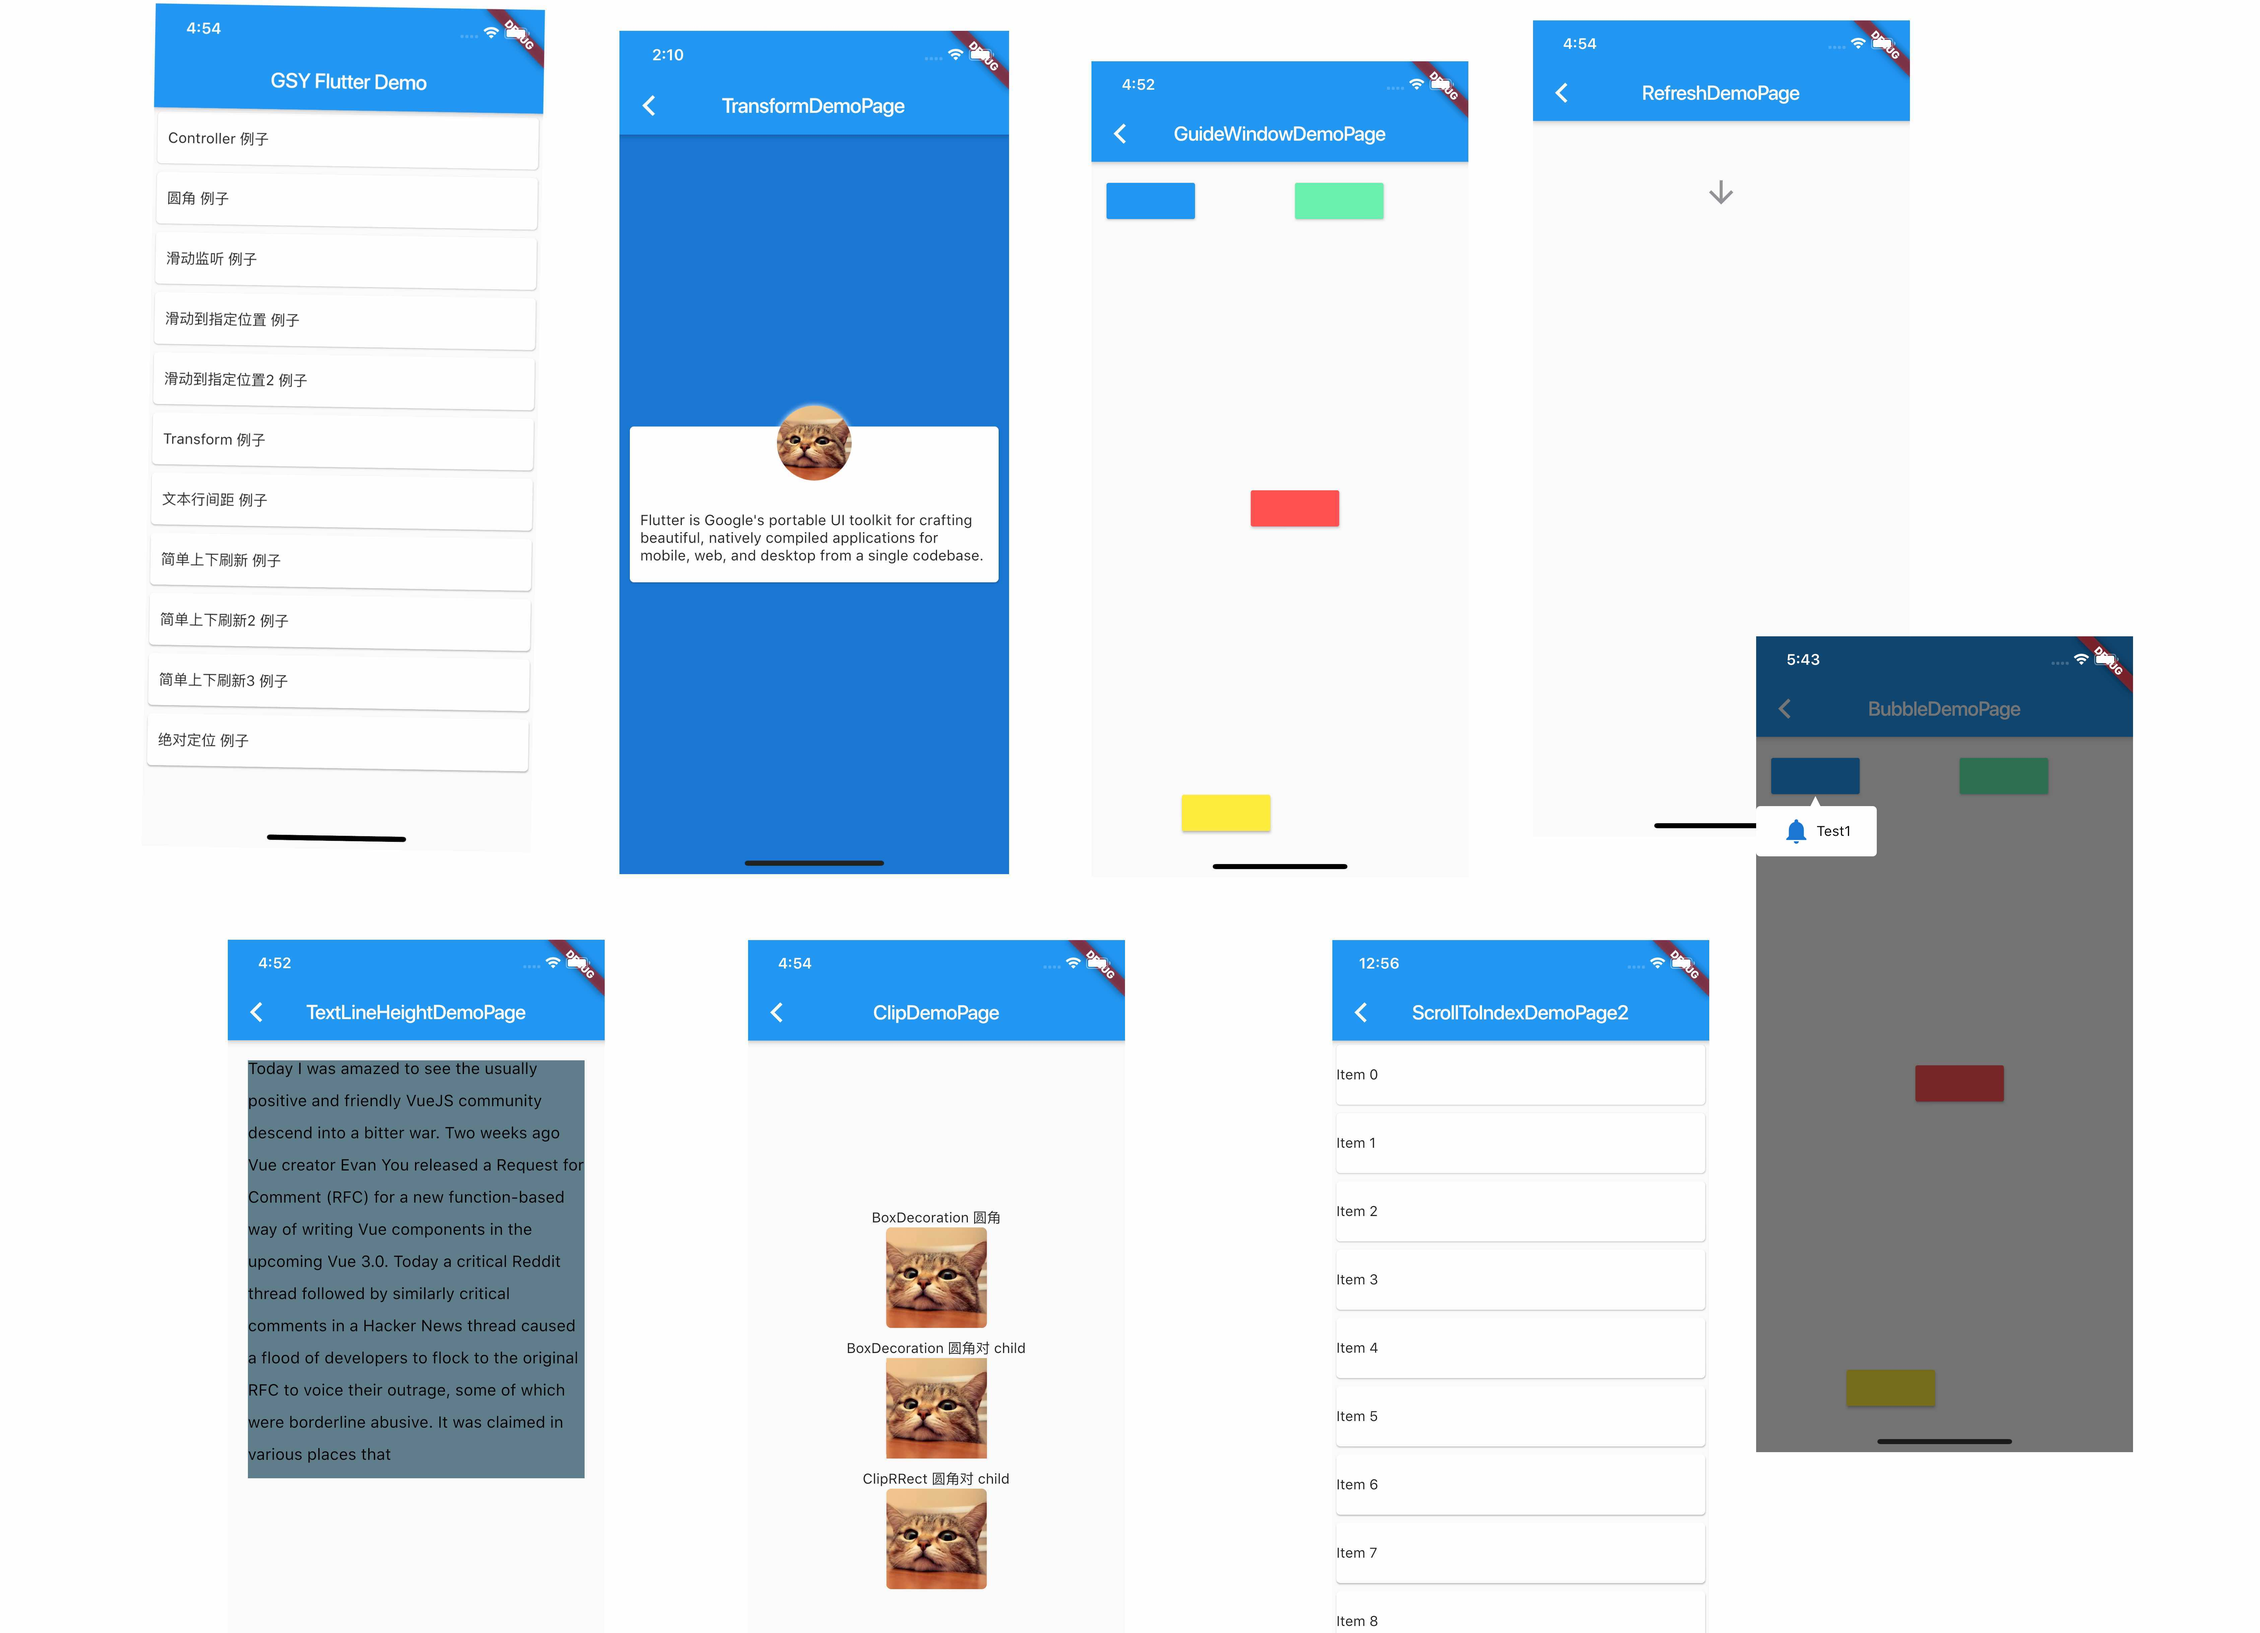
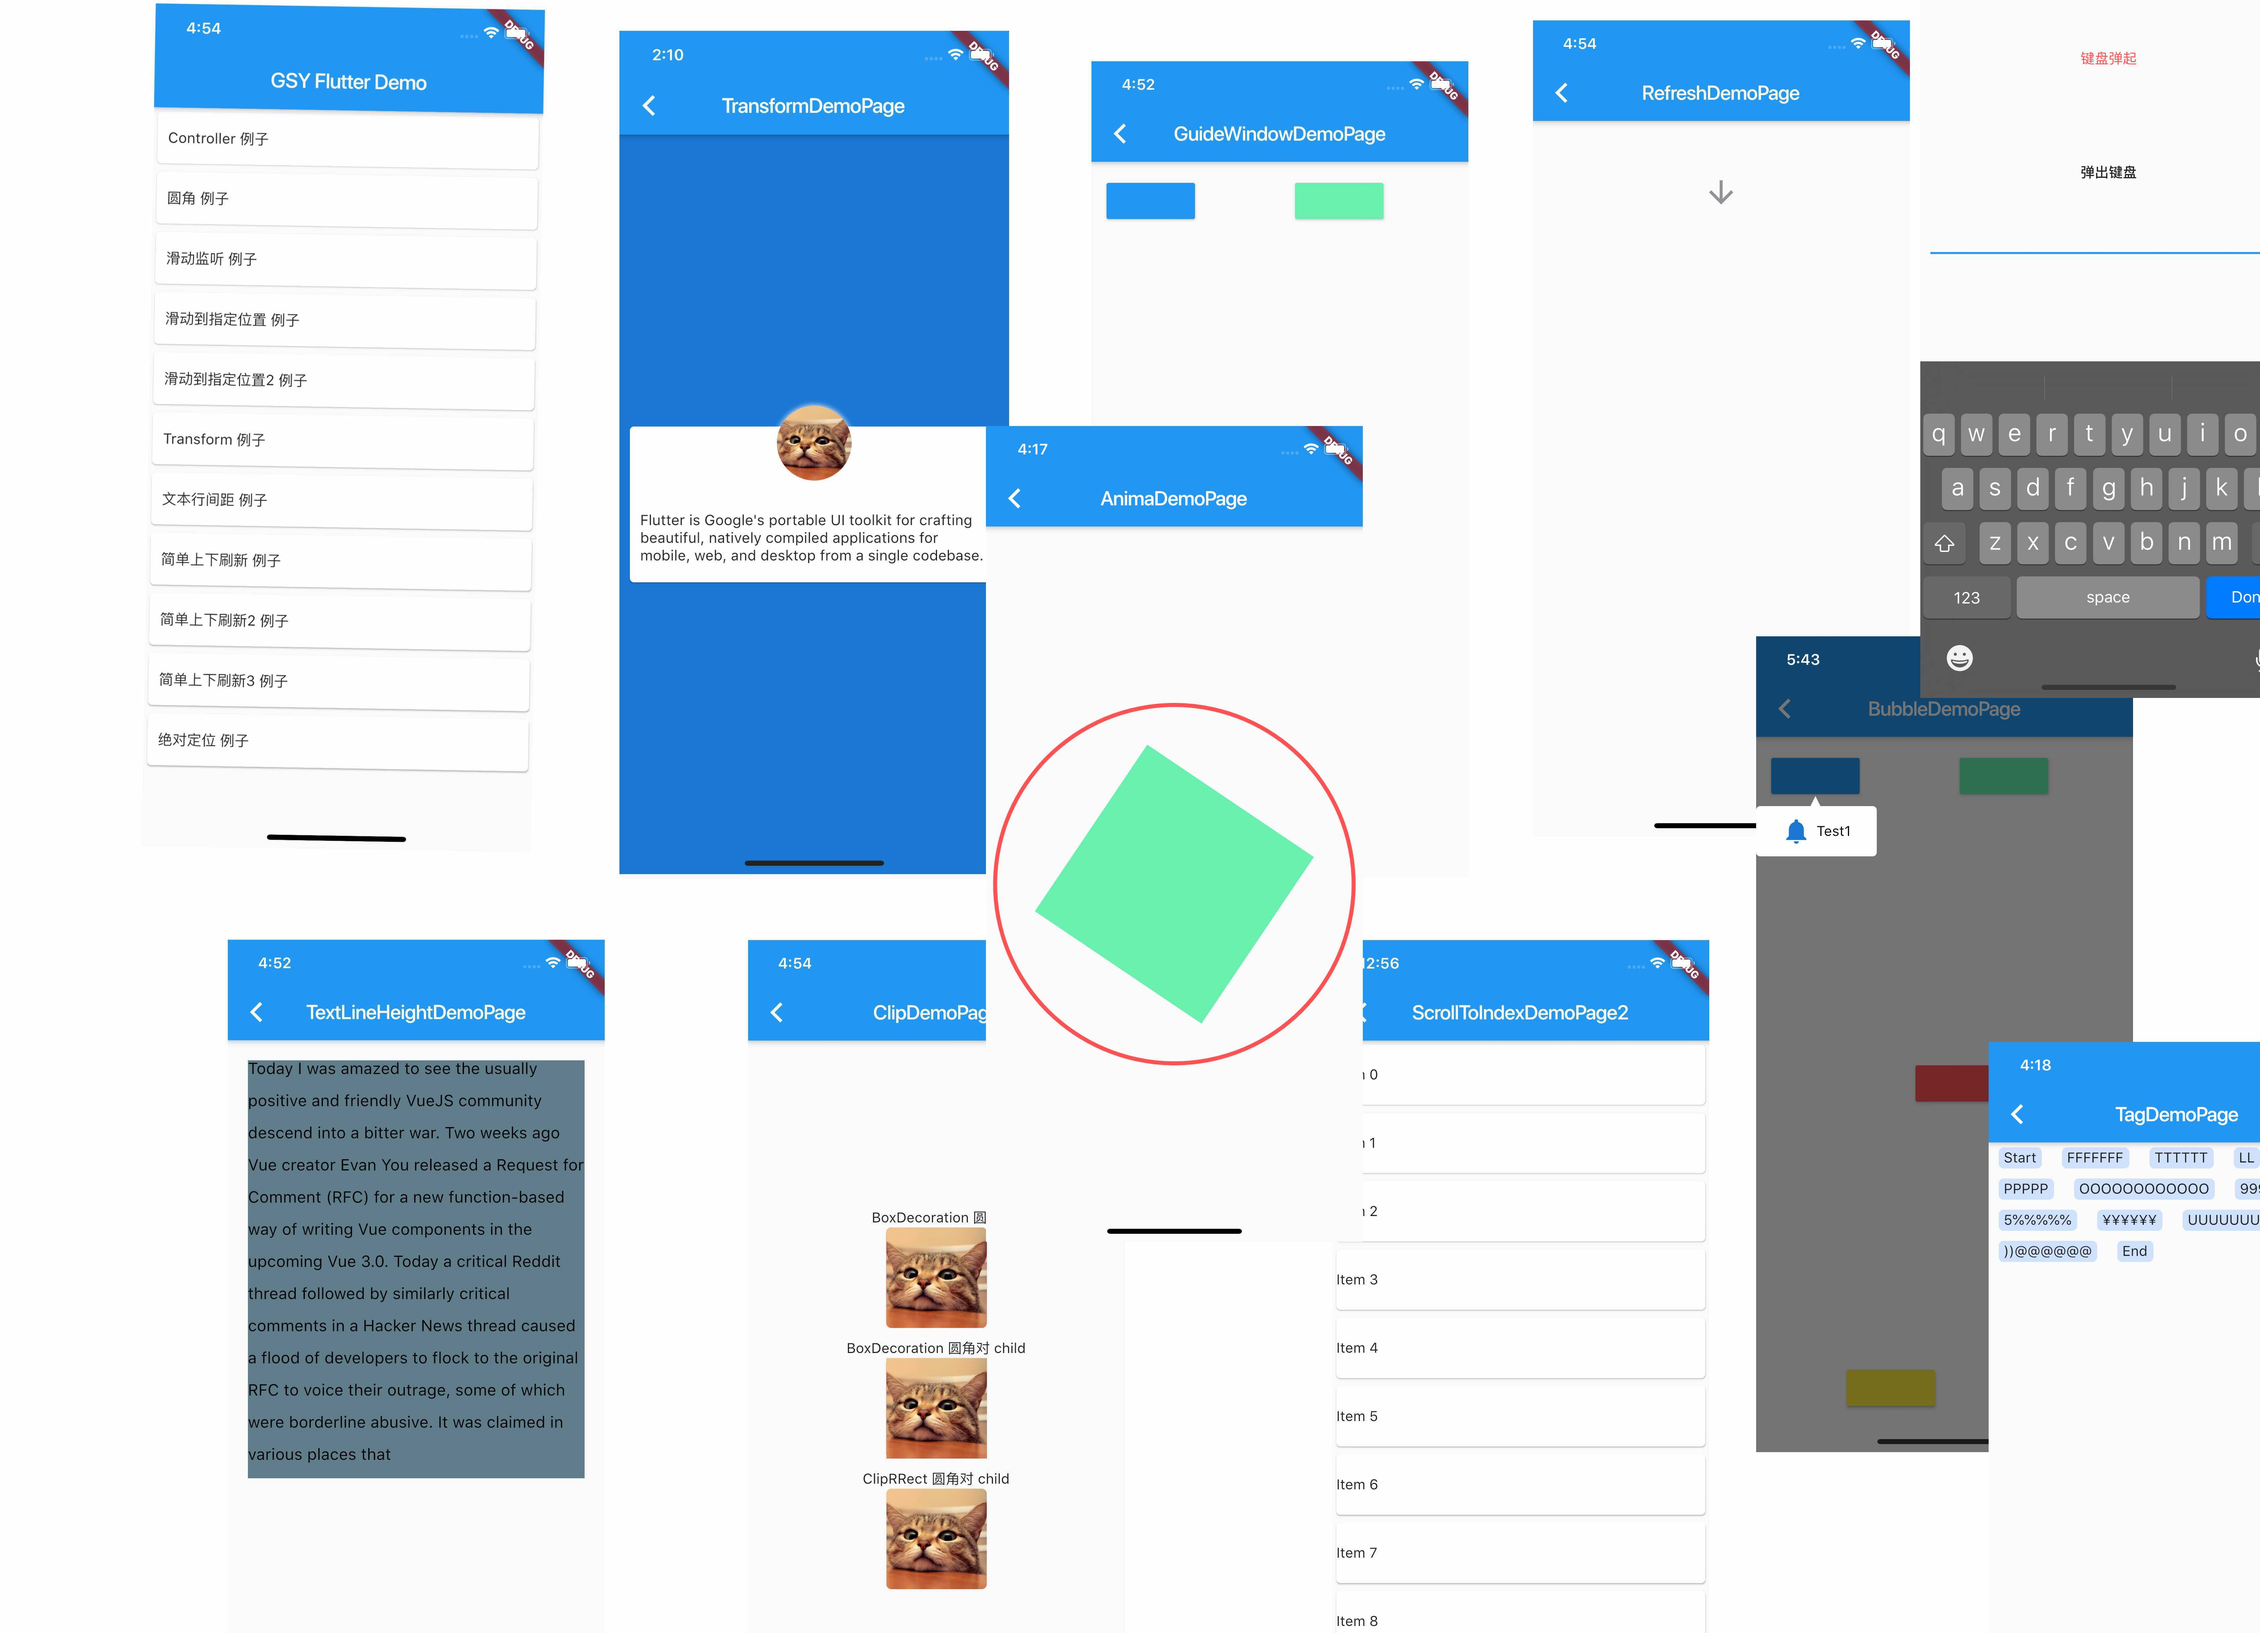
增加动画效果

Changed region(s): [[0.4358, 0.2494, 0.6226, 0.6546], [0.8405, 0.2182, 1.0, 0.4364], [0.8716, 0.6235, 1.0, 0.904]]

diff --git a/lib/widget/anima_demo_page.dart b/lib/widget/anima_demo_page.dart
@@ -1,0 +1,84 @@
+import 'package:flutter/material.dart';
+
+class AnimaDemoPage extends StatefulWidget {
+  @override
+  _AnimaDemoPageState createState() => _AnimaDemoPageState();
+}
+
+class _AnimaDemoPageState extends State<AnimaDemoPage>
+    with SingleTickerProviderStateMixin {
+  AnimationController controller1;
+
+  Animation animation1;
+
+  Animation animation2;
+
+  @override
+  void initState() {
+    super.initState();
+    controller1 =
+        new AnimationController(vsync: this, duration: Duration(seconds: 3));
+
+    animation1 = Tween(begin: 0.0, end: 200.0).animate(controller1)
+      ..addListener(() {
+        setState(() {});
+      });
+
+    animation2 = Tween(begin: 0.0, end: 1.0).animate(controller1);
+
+    controller1.repeat();
+  }
+
+  @override
+  void dispose() {
+    controller1.dispose();
+    super.dispose();
+  }
+
+  @override
+  Widget build(BuildContext context) {
+    return Scaffold(
+      appBar: AppBar(
+        title: new Text("AnimaDemoPage"),
+      ),
+
+      ///用封装好的 Transition 做动画
+      body: new RotationTransition(
+        turns: animation2,
+        child: new Container(
+          child: Center(
+            child: new Container(
+              height: 200,
+              width: 200,
+              color: Colors.greenAccent,
+              child: CustomPaint(
+                ///直接使用值做动画
+                foregroundPainter: _AnimationPainter(animation1),
+              ),
+            ),
+          ),
+        ),
+      ),
+    );
+  }
+}
+
+class _AnimationPainter extends CustomPainter {
+  Paint _paint = new Paint();
+
+  Animation animation;
+
+  _AnimationPainter(this.animation);
+
+  @override
+  void paint(Canvas canvas, Size size) {
+    _paint
+      ..color = Colors.redAccent
+      ..strokeWidth = 4
+      ..style = PaintingStyle.stroke;
+    canvas.drawCircle(Offset(100, 100), animation.value * 1.5, _paint);
+  }
+
+  @override
+  bool shouldRepaint(CustomPainter oldDelegate) => true;
+}

diff --git a/lib/main.dart b/lib/main.dart
@@ -1,4 +1,5 @@
 import 'package:flutter/material.dart';
+import 'package:gsy_flutter_demo/widget/anima_demo_page.dart';
 import 'package:gsy_flutter_demo/widget/bubble/bubble_demo_page.dart';
 import 'package:gsy_flutter_demo/widget/clip_demo_page.dart';
 import 'package:gsy_flutter_demo/widget/controller_demo_page.dart';
@@ -91,6 +92,7 @@ const routerName = [
   "共享元素 例子",
   "状态栏颜色 例子",
   "键盘相关 例子",
+  "动画 例子",
 ];
 
 Map<String, WidgetBuilder> routers = {
@@ -141,6 +143,9 @@ Map<String, WidgetBuilder> routers = {
   },
   "widget/keyboard": (context) {
     return new KeyBoardDemoPage();
+  },
+  "widget/anima": (context) {
+    return new AnimaDemoPage();
   },
 
 };

diff --git a/README.md b/README.md
@@ -21,6 +21,7 @@
 - **共享元素动画 例子**
 - **修改状态栏颜色 例子**
 - **系统键盘相关 例子**
+- **动画相关 例子**
 
 
 ![](demo.jpg)
